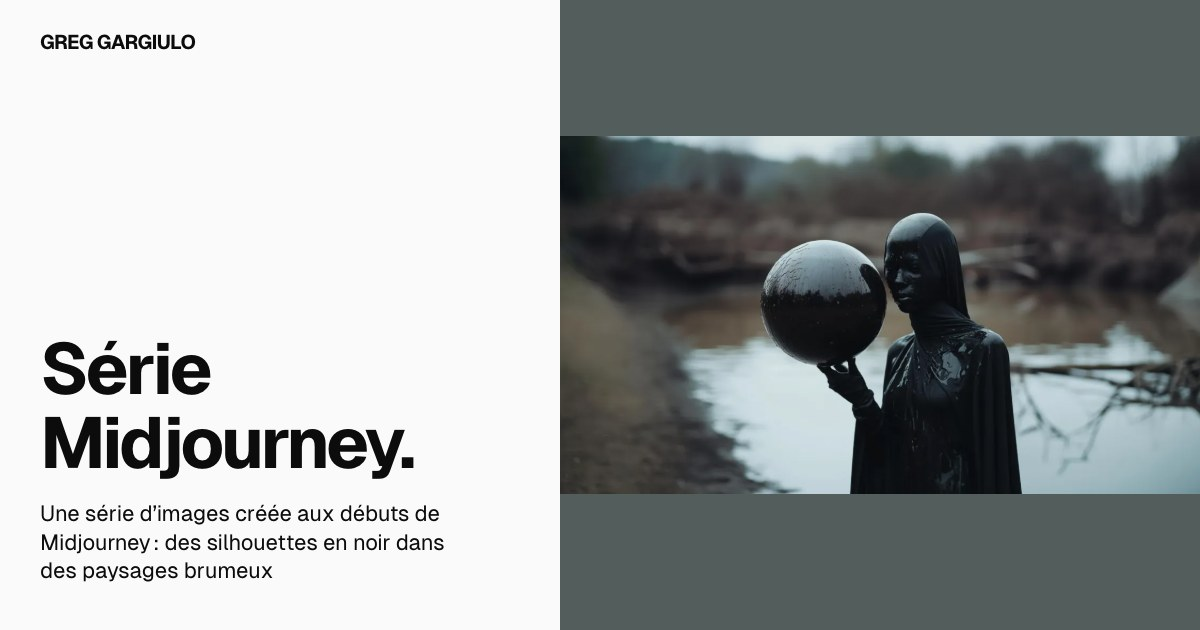
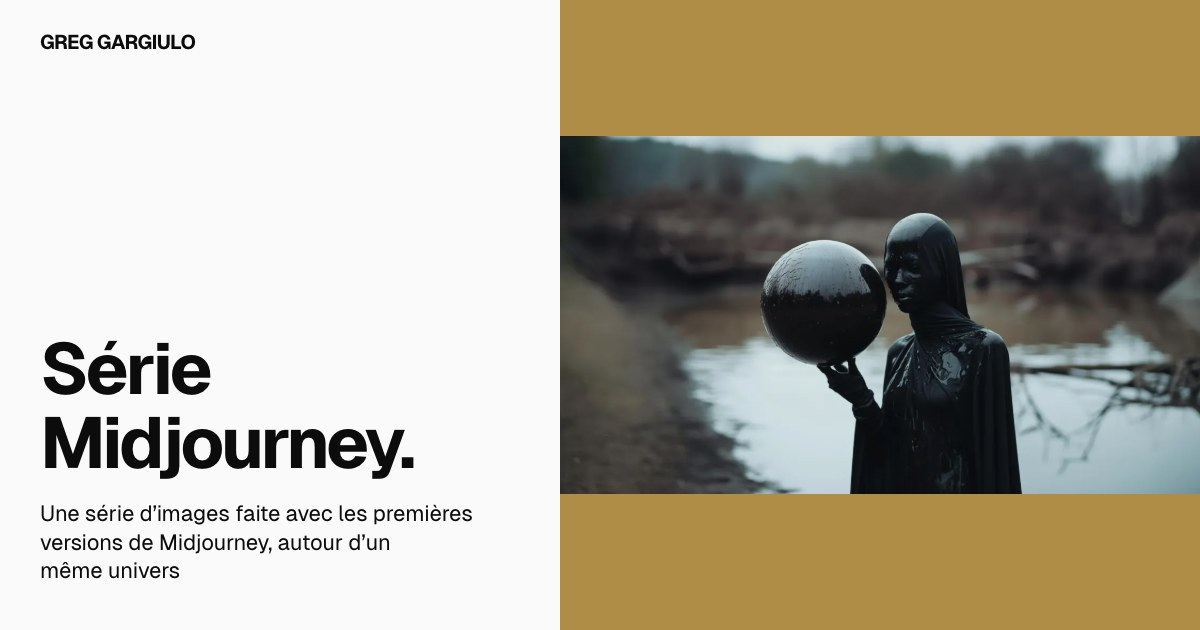
fix: série Midjourney sans légendes, nouvel aplat et textes repris
- Légendes retirées, plus aucune mention de Carrd
- Aplat ocre tiré des images à la place du gris
- Textes réécrits autour des choix de direction artistique

Changed region(s): [[0.4625, 0.7841, 1.0, 1.0], [0.4625, 0.0, 1.0, 0.2413], [0.0308, 0.7841, 0.4008, 0.9349]]

diff --git a/projets/serie-midjourney/index.html b/projets/serie-midjourney/index.html
@@ -4,17 +4,17 @@
 <meta charset="utf-8">
 <meta name="viewport" content="width=device-width, initial-scale=1">
 <title>Série Midjourney, étude de cas | Greg Gargiulo</title>
-<meta name="description" content="Une série d’images créée aux débuts de Midjourney : des silhouettes en noir dans des paysages brumeux. Étude de cas : stack, décisions et résultats.">
+<meta name="description" content="Une série d’images faite avec les premières versions de Midjourney, autour d’un même univers. Étude de cas : stack, décisions et résultats.">
 <link rel="canonical" href="https://6gbigalt.github.io/projets/serie-midjourney/">
 <meta property="og:type" content="website">
 <meta property="og:title" content="Série Midjourney, étude de cas | Greg Gargiulo">
-<meta property="og:description" content="Une série d’images créée aux débuts de Midjourney : des silhouettes en noir dans des paysages brumeux. Étude de cas : stack, décisions et résultats.">
+<meta property="og:description" content="Une série d’images faite avec les premières versions de Midjourney, autour d’un même univers. Étude de cas : stack, décisions et résultats.">
 <meta property="og:url" content="https://6gbigalt.github.io/projets/serie-midjourney/">
 <meta property="og:image" content="https://6gbigalt.github.io/assets/og/serie-midjourney.jpg">
 <meta property="og:locale" content="fr_FR">
 <meta property="og:image:width" content="1200">
 <meta property="og:image:height" content="630">
-<meta property="og:image:alt" content="Série Midjourney. Une série d’images créée aux débuts de Midjourney : des silhouettes en noir dans des paysages brumeux">
+<meta property="og:image:alt" content="Série Midjourney. Une série d’images faite avec les premières versions de Midjourney, autour d’un même univers">
 <meta name="twitter:card" content="summary_large_image">
 <meta name="theme-color" content="#fafafa">
 <link rel="icon" href="../../assets/favicon-32.png" type="image/png" sizes="32x32">
@@ -68,7 +68,7 @@
       <h1 class="case-title">Série Midjourney.</h1>
       <p class="case-year"><span class="visually-hidden">Année : </span>2022</p>
     </div>
-    <p class="case-outcome">Une série d’images créée aux débuts de Midjourney : des silhouettes en noir dans des paysages brumeux</p>
+    <p class="case-outcome">Une série d’images faite avec les premières versions de Midjourney, autour d’un même univers</p>
     
   </div>
 </header>
@@ -77,39 +77,39 @@
   <div class="wrap">
     <div class="reel" data-motion="time">
       <div class="reel-frame" aria-hidden="true">
-        <div class="reel-slide" data-outcome="Une silhouette voilée de noir tient une sphère brillante au bord de l’eau.">
-          <div class="stage stage--photo stage--reel" style="--tone:#535d5c;--on:#fafafa" aria-hidden="true"><div class="photo"><img src="../../assets/captures/serie-midjourney/sphere.webp" srcset="../../assets/captures/serie-midjourney/sphere.w480.webp 480w, ../../assets/captures/serie-midjourney/sphere.w1200.webp 1200w, ../../assets/captures/serie-midjourney/sphere.webp 2160w" sizes="(min-width: 900px) 92vw, 100vw" alt="" width="2160" height="1206" loading="eager" decoding="async"></div></div>
+        <div class="reel-slide" data-outcome="">
+          <div class="stage stage--photo stage--reel" style="--tone:#b08d47;--on:#0c0c0d" aria-hidden="true"><div class="photo"><img src="../../assets/captures/serie-midjourney/sphere.webp" srcset="../../assets/captures/serie-midjourney/sphere.w480.webp 480w, ../../assets/captures/serie-midjourney/sphere.w1200.webp 1200w, ../../assets/captures/serie-midjourney/sphere.webp 2160w" sizes="(min-width: 900px) 92vw, 100vw" alt="" width="2160" height="1206" loading="eager" decoding="async"></div></div>
         </div>
-        <div class="reel-slide" data-outcome="Une silhouette dans un lac de montagne, sous un ciel couvert.">
-          <div class="stage stage--photo stage--reel" style="--tone:#535d5c;--on:#fafafa" aria-hidden="true"><div class="photo"><img src="../../assets/captures/serie-midjourney/lac.webp" srcset="../../assets/captures/serie-midjourney/lac.w480.webp 480w, ../../assets/captures/serie-midjourney/lac.w1200.webp 1200w, ../../assets/captures/serie-midjourney/lac.webp 2160w" sizes="(min-width: 900px) 92vw, 100vw" alt="" width="2160" height="1204" loading="eager" decoding="async"></div></div>
+        <div class="reel-slide" data-outcome="">
+          <div class="stage stage--photo stage--reel" style="--tone:#b08d47;--on:#0c0c0d" aria-hidden="true"><div class="photo"><img src="../../assets/captures/serie-midjourney/sphere-lac.webp" srcset="../../assets/captures/serie-midjourney/sphere-lac.w480.webp 480w, ../../assets/captures/serie-midjourney/sphere-lac.w1200.webp 1200w, ../../assets/captures/serie-midjourney/sphere-lac.webp 2160w" sizes="(min-width: 900px) 92vw, 100vw" alt="" width="2160" height="1204" loading="eager" decoding="async"></div></div>
         </div>
-        <div class="reel-slide" data-outcome="Une silhouette encapuchonnée au bord d’une rivière, une sphère contre elle.">
-          <div class="stage stage--photo stage--reel" style="--tone:#535d5c;--on:#fafafa" aria-hidden="true"><div class="photo"><img src="../../assets/captures/serie-midjourney/riviere.webp" srcset="../../assets/captures/serie-midjourney/riviere.w480.webp 480w, ../../assets/captures/serie-midjourney/riviere.w1200.webp 1200w, ../../assets/captures/serie-midjourney/riviere.webp 2160w" sizes="(min-width: 900px) 92vw, 100vw" alt="" width="2160" height="1203" loading="lazy" decoding="async"></div></div>
+        <div class="reel-slide" data-outcome="">
+          <div class="stage stage--photo stage--reel" style="--tone:#b08d47;--on:#0c0c0d" aria-hidden="true"><div class="photo"><img src="../../assets/captures/serie-midjourney/sphere-flottante.webp" srcset="../../assets/captures/serie-midjourney/sphere-flottante.w480.webp 480w, ../../assets/captures/serie-midjourney/sphere-flottante.w1200.webp 1200w, ../../assets/captures/serie-midjourney/sphere-flottante.webp 2160w" sizes="(min-width: 900px) 92vw, 100vw" alt="" width="2160" height="1203" loading="lazy" decoding="async"></div></div>
         </div>
-        <div class="reel-slide" data-outcome="Une silhouette seule au bord d’un lac, entre des arbres nus.">
-          <div class="stage stage--photo stage--reel" style="--tone:#535d5c;--on:#fafafa" aria-hidden="true"><div class="photo"><img src="../../assets/captures/serie-midjourney/arbres.webp" srcset="../../assets/captures/serie-midjourney/arbres.w480.webp 480w, ../../assets/captures/serie-midjourney/arbres.w1200.webp 1200w, ../../assets/captures/serie-midjourney/arbres.webp 2160w" sizes="(min-width: 900px) 92vw, 100vw" alt="" width="2160" height="1207" loading="lazy" decoding="async"></div></div>
+        <div class="reel-slide" data-outcome="">
+          <div class="stage stage--photo stage--reel" style="--tone:#b08d47;--on:#0c0c0d" aria-hidden="true"><div class="photo"><img src="../../assets/captures/serie-midjourney/monolithes.webp" srcset="../../assets/captures/serie-midjourney/monolithes.w480.webp 480w, ../../assets/captures/serie-midjourney/monolithes.w1200.webp 1200w, ../../assets/captures/serie-midjourney/monolithes.webp 2160w" sizes="(min-width: 900px) 92vw, 100vw" alt="" width="2160" height="1203" loading="lazy" decoding="async"></div></div>
         </div>
-        <div class="reel-slide" data-outcome="Une silhouette tient une sphère noire devant un lac et des montagnes enneigées.">
-          <div class="stage stage--photo stage--reel" style="--tone:#535d5c;--on:#fafafa" aria-hidden="true"><div class="photo"><img src="../../assets/captures/serie-midjourney/sphere-lac.webp" srcset="../../assets/captures/serie-midjourney/sphere-lac.w480.webp 480w, ../../assets/captures/serie-midjourney/sphere-lac.w1200.webp 1200w, ../../assets/captures/serie-midjourney/sphere-lac.webp 2160w" sizes="(min-width: 900px) 92vw, 100vw" alt="" width="2160" height="1204" loading="lazy" decoding="async"></div></div>
+        <div class="reel-slide" data-outcome="">
+          <div class="stage stage--photo stage--reel" style="--tone:#b08d47;--on:#0c0c0d" aria-hidden="true"><div class="photo"><img src="../../assets/captures/serie-midjourney/monolithes-soir.webp" srcset="../../assets/captures/serie-midjourney/monolithes-soir.w480.webp 480w, ../../assets/captures/serie-midjourney/monolithes-soir.w1200.webp 1200w, ../../assets/captures/serie-midjourney/monolithes-soir.webp 2160w" sizes="(min-width: 900px) 92vw, 100vw" alt="" width="2160" height="1207" loading="lazy" decoding="async"></div></div>
         </div>
-        <div class="reel-slide" data-outcome="Une sphère noire flotte au-dessus d’une silhouette, au bord d’un lac.">
-          <div class="stage stage--photo stage--reel" style="--tone:#535d5c;--on:#fafafa" aria-hidden="true"><div class="photo"><img src="../../assets/captures/serie-midjourney/sphere-flottante.webp" srcset="../../assets/captures/serie-midjourney/sphere-flottante.w480.webp 480w, ../../assets/captures/serie-midjourney/sphere-flottante.w1200.webp 1200w, ../../assets/captures/serie-midjourney/sphere-flottante.webp 2160w" sizes="(min-width: 900px) 92vw, 100vw" alt="" width="2160" height="1203" loading="lazy" decoding="async"></div></div>
+        <div class="reel-slide" data-outcome="">
+          <div class="stage stage--photo stage--reel" style="--tone:#b08d47;--on:#0c0c0d" aria-hidden="true"><div class="photo"><img src="../../assets/captures/serie-midjourney/riviere.webp" srcset="../../assets/captures/serie-midjourney/riviere.w480.webp 480w, ../../assets/captures/serie-midjourney/riviere.w1200.webp 1200w, ../../assets/captures/serie-midjourney/riviere.webp 2160w" sizes="(min-width: 900px) 92vw, 100vw" alt="" width="2160" height="1203" loading="lazy" decoding="async"></div></div>
         </div>
-        <div class="reel-slide" data-outcome="Des monolithes de miroir alignés dans une plaine.">
-          <div class="stage stage--photo stage--reel" style="--tone:#535d5c;--on:#fafafa" aria-hidden="true"><div class="photo"><img src="../../assets/captures/serie-midjourney/monolithes.webp" srcset="../../assets/captures/serie-midjourney/monolithes.w480.webp 480w, ../../assets/captures/serie-midjourney/monolithes.w1200.webp 1200w, ../../assets/captures/serie-midjourney/monolithes.webp 2160w" sizes="(min-width: 900px) 92vw, 100vw" alt="" width="2160" height="1203" loading="lazy" decoding="async"></div></div>
+        <div class="reel-slide" data-outcome="">
+          <div class="stage stage--photo stage--reel" style="--tone:#b08d47;--on:#0c0c0d" aria-hidden="true"><div class="photo"><img src="../../assets/captures/serie-midjourney/arbres.webp" srcset="../../assets/captures/serie-midjourney/arbres.w480.webp 480w, ../../assets/captures/serie-midjourney/arbres.w1200.webp 1200w, ../../assets/captures/serie-midjourney/arbres.webp 2160w" sizes="(min-width: 900px) 92vw, 100vw" alt="" width="2160" height="1207" loading="lazy" decoding="async"></div></div>
         </div>
-        <div class="reel-slide" data-outcome="Deux monolithes de miroir au coucher du soleil, reflétés dans l’eau.">
-          <div class="stage stage--photo stage--reel" style="--tone:#535d5c;--on:#fafafa" aria-hidden="true"><div class="photo"><img src="../../assets/captures/serie-midjourney/monolithes-soir.webp" srcset="../../assets/captures/serie-midjourney/monolithes-soir.w480.webp 480w, ../../assets/captures/serie-midjourney/monolithes-soir.w1200.webp 1200w, ../../assets/captures/serie-midjourney/monolithes-soir.webp 2160w" sizes="(min-width: 900px) 92vw, 100vw" alt="" width="2160" height="1207" loading="lazy" decoding="async"></div></div>
+        <div class="reel-slide" data-outcome="">
+          <div class="stage stage--photo stage--reel" style="--tone:#b08d47;--on:#0c0c0d" aria-hidden="true"><div class="photo"><img src="../../assets/captures/serie-midjourney/salle.webp" srcset="../../assets/captures/serie-midjourney/salle.w480.webp 480w, ../../assets/captures/serie-midjourney/salle.w1200.webp 1200w, ../../assets/captures/serie-midjourney/salle.webp 2160w" sizes="(min-width: 900px) 92vw, 100vw" alt="" width="2160" height="1203" loading="lazy" decoding="async"></div></div>
         </div>
-        <div class="reel-slide" data-outcome="Une salle sombre, des silhouettes casquées et des sphères de verre.">
-          <div class="stage stage--photo stage--reel" style="--tone:#535d5c;--on:#fafafa" aria-hidden="true"><div class="photo"><img src="../../assets/captures/serie-midjourney/salle.webp" srcset="../../assets/captures/serie-midjourney/salle.w480.webp 480w, ../../assets/captures/serie-midjourney/salle.w1200.webp 1200w, ../../assets/captures/serie-midjourney/salle.webp 2160w" sizes="(min-width: 900px) 92vw, 100vw" alt="" width="2160" height="1203" loading="lazy" decoding="async"></div></div>
+        <div class="reel-slide" data-outcome="">
+          <div class="stage stage--photo stage--reel" style="--tone:#b08d47;--on:#0c0c0d" aria-hidden="true"><div class="photo"><img src="../../assets/captures/serie-midjourney/tunnel.webp" srcset="../../assets/captures/serie-midjourney/tunnel.w480.webp 480w, ../../assets/captures/serie-midjourney/tunnel.w1200.webp 1200w, ../../assets/captures/serie-midjourney/tunnel.webp 2160w" sizes="(min-width: 900px) 92vw, 100vw" alt="" width="2160" height="1207" loading="lazy" decoding="async"></div></div>
         </div>
-        <div class="reel-slide" data-outcome="Une silhouette casquée au centre d’un tunnel circulaire.">
-          <div class="stage stage--photo stage--reel" style="--tone:#535d5c;--on:#fafafa" aria-hidden="true"><div class="photo"><img src="../../assets/captures/serie-midjourney/tunnel.webp" srcset="../../assets/captures/serie-midjourney/tunnel.w480.webp 480w, ../../assets/captures/serie-midjourney/tunnel.w1200.webp 1200w, ../../assets/captures/serie-midjourney/tunnel.webp 2160w" sizes="(min-width: 900px) 92vw, 100vw" alt="" width="2160" height="1207" loading="lazy" decoding="async"></div></div>
+        <div class="reel-slide" data-outcome="">
+          <div class="stage stage--photo stage--reel" style="--tone:#b08d47;--on:#0c0c0d" aria-hidden="true"><div class="photo"><img src="../../assets/captures/serie-midjourney/lac.webp" srcset="../../assets/captures/serie-midjourney/lac.w480.webp 480w, ../../assets/captures/serie-midjourney/lac.w1200.webp 1200w, ../../assets/captures/serie-midjourney/lac.webp 2160w" sizes="(min-width: 900px) 92vw, 100vw" alt="" width="2160" height="1204" loading="lazy" decoding="async"></div></div>
         </div>
       </div>
       <div class="reel-bar">
-        <p class="reel-caption">Une silhouette voilée de noir tient une sphère brillante au bord de l’eau.</p>
+        
         <p class="reel-status visually-hidden" role="status"></p>
         <div class="reel-ctrl">
           <button type="button" class="arrow reel-pause" aria-label="Mettre les animations en pause"><svg class="i-pause" viewBox="0 0 16 16" aria-hidden="true" focusable="false"><path d="M5.5 3v10M10.5 3v10" fill="none" stroke="currentColor" stroke-width="1.5"/></svg><svg class="i-play" viewBox="0 0 16 16" aria-hidden="true" focusable="false"><path d="M5 3.2l8 4.8-8 4.8z" fill="none" stroke="currentColor" stroke-width="1.5" stroke-linejoin="round"/></svg></button>
@@ -145,9 +145,9 @@
     </div>
     <div class="overview-main">
       <h2 class="label">En bref</h2>
-      <p class="overview-lead">En 2022, Midjourney en était à ses premières versions et ne s’utilisait que sur Discord. J’en ai tiré une série d’images pensée comme un seul univers : des silhouettes vêtues de noir dans des paysages vides, avec des formes qui reviennent d’une image à l’autre. J’ai tout fait seul, de la direction artistique au choix des images.</p>
+      <p class="overview-lead">J’ai créé cette série en 2022, avec les premières versions de Midjourney, quand l’outil ne s’utilisait encore que sur Discord. Toutes les images partagent le même univers : des personnages vêtus de noir, des paysages vides, et des formes qui reviennent d’une image à l’autre.</p>
       <h2 class="label">Point de départ</h2>
-      <p class="overview-text">Midjourney rendait alors quatre propositions à chaque demande, et aucun réglage ne permettait d’imposer un style d’une image à l’autre. Pour que la série se tienne, il fallait fixer une direction et ne garder que les images qui la suivaient.</p>
+      <p class="overview-text">À l’époque, Midjourney donnait quatre images différentes à chaque demande, sans moyen d’imposer un style d’une image à l’autre. Pour obtenir une série cohérente, il fallait tenir une direction précise et ne garder que les images qui la suivaient.</p>
       
     </div>
   </div>
@@ -157,7 +157,7 @@
   <div class="wrap">
     <div class="spec" id="livrables">
       <h2 class="spec-title">Livrables</h2>
-      <ul class="spec-list" role="list"><li>Une série de dix images au format 16:9.</li><li>Une palette resserrée, faite de noirs profonds et de gris bleutés sous des ciels couverts.</li><li>Deux motifs qui reviennent, la sphère noire et le monolithe de miroir.</li><li>Une page Carrd pour présenter la série.</li></ul>
+      <ul class="spec-list" role="list"><li>Dix images au format 16:9.</li><li>Un même univers visuel, avec ses personnages et ses motifs.</li></ul>
     </div>
     
     <div class="spec" id="stack">
@@ -165,7 +165,6 @@
       <dl class="stack-table">
           <div><dt>Images</dt><dd><ul class="tags" role="list"><li>Midjourney</li></ul></dd></div>
           <div><dt>Accès</dt><dd><ul class="tags" role="list"><li>Discord</li></ul></dd></div>
-          <div><dt>Présentation</dt><dd><ul class="tags" role="list"><li>Carrd</li></ul></dd></div>
       </dl>
     </div>
   </div>
@@ -179,56 +178,46 @@
       </div>
       <ol class="steps" role="list">
           <li class="step">
-            <h3 class="step-title">Une palette resserrée, sous un ciel bas</h3>
-            <div class="step-body"><p>Presque toutes les images se passent dehors, au bord de l’eau, avec des montagnes au loin et un ciel couvert. Les couleurs restent froides, entre le noir et le gris bleuté, même quand le soleil perce à l’horizon.</p></div>
+            <h3 class="step-title">Les mêmes formes d’une image à l’autre</h3>
+            <div class="step-body"><p>Je voulais que les images se répondent. Une sphère noire passe de main en main, puis flotte au-dessus d’un lac, et des monolithes de miroir se dressent dans la plaine.</p></div>
+            <div class="step-media"><div class="pair"><figure class="shot" data-motion="time">
+          <div class="stage stage--photo stage--pair" style="--tone:#b08d47;--on:#0c0c0d"><div class="photo"><img src="../../assets/captures/serie-midjourney/sphere-lac.webp" srcset="../../assets/captures/serie-midjourney/sphere-lac.w480.webp 480w, ../../assets/captures/serie-midjourney/sphere-lac.w1200.webp 1200w, ../../assets/captures/serie-midjourney/sphere-lac.webp 2160w" sizes="(min-width: 900px) 32vw, 92vw" alt="Série Midjourney, image de la série" width="2160" height="1204" loading="lazy" decoding="async"></div></div>
+          
+        </figure><figure class="shot" data-motion="time">
+          <div class="stage stage--photo stage--pair" style="--tone:#b08d47;--on:#0c0c0d"><div class="photo"><img src="../../assets/captures/serie-midjourney/sphere-flottante.webp" srcset="../../assets/captures/serie-midjourney/sphere-flottante.w480.webp 480w, ../../assets/captures/serie-midjourney/sphere-flottante.w1200.webp 1200w, ../../assets/captures/serie-midjourney/sphere-flottante.webp 2160w" sizes="(min-width: 900px) 32vw, 92vw" alt="Série Midjourney, image de la série" width="2160" height="1203" loading="lazy" decoding="async"></div></div>
+          
+        </figure><figure class="shot" data-motion="time">
+          <div class="stage stage--photo stage--pair" style="--tone:#b08d47;--on:#0c0c0d"><div class="photo"><img src="../../assets/captures/serie-midjourney/monolithes.webp" srcset="../../assets/captures/serie-midjourney/monolithes.w480.webp 480w, ../../assets/captures/serie-midjourney/monolithes.w1200.webp 1200w, ../../assets/captures/serie-midjourney/monolithes.webp 2160w" sizes="(min-width: 900px) 32vw, 92vw" alt="Série Midjourney, image de la série" width="2160" height="1203" loading="lazy" decoding="async"></div></div>
+          
+        </figure><figure class="shot" data-motion="time">
+          <div class="stage stage--photo stage--pair" style="--tone:#b08d47;--on:#0c0c0d"><div class="photo"><img src="../../assets/captures/serie-midjourney/monolithes-soir.webp" srcset="../../assets/captures/serie-midjourney/monolithes-soir.w480.webp 480w, ../../assets/captures/serie-midjourney/monolithes-soir.w1200.webp 1200w, ../../assets/captures/serie-midjourney/monolithes-soir.webp 2160w" sizes="(min-width: 900px) 32vw, 92vw" alt="Série Midjourney, image de la série" width="2160" height="1207" loading="lazy" decoding="async"></div></div>
+          
+        </figure></div></div>
+          </li>
+          <li class="step">
+            <h3 class="step-title">Des personnages sans visage</h3>
+            <div class="step-body"><p>Les personnages sont vêtus de noir de la tête aux pieds, le visage souvent masqué, et presque toujours seuls. Je ne voulais pas qu’on sache qui ils sont ni ce qu’ils font là.</p></div>
+            <div class="step-media"><div class="pair"><figure class="shot" data-motion="time">
+          <div class="stage stage--photo stage--pair" style="--tone:#b08d47;--on:#0c0c0d"><div class="photo"><img src="../../assets/captures/serie-midjourney/riviere.webp" srcset="../../assets/captures/serie-midjourney/riviere.w480.webp 480w, ../../assets/captures/serie-midjourney/riviere.w1200.webp 1200w, ../../assets/captures/serie-midjourney/riviere.webp 2160w" sizes="(min-width: 900px) 32vw, 92vw" alt="Série Midjourney, image de la série" width="2160" height="1203" loading="lazy" decoding="async"></div></div>
+          
+        </figure><figure class="shot" data-motion="time">
+          <div class="stage stage--photo stage--pair" style="--tone:#b08d47;--on:#0c0c0d"><div class="photo"><img src="../../assets/captures/serie-midjourney/arbres.webp" srcset="../../assets/captures/serie-midjourney/arbres.w480.webp 480w, ../../assets/captures/serie-midjourney/arbres.w1200.webp 1200w, ../../assets/captures/serie-midjourney/arbres.webp 2160w" sizes="(min-width: 900px) 32vw, 92vw" alt="Série Midjourney, image de la série" width="2160" height="1207" loading="lazy" decoding="async"></div></div>
+          
+        </figure><figure class="shot" data-motion="time">
+          <div class="stage stage--photo stage--pair" style="--tone:#b08d47;--on:#0c0c0d"><div class="photo"><img src="../../assets/captures/serie-midjourney/salle.webp" srcset="../../assets/captures/serie-midjourney/salle.w480.webp 480w, ../../assets/captures/serie-midjourney/salle.w1200.webp 1200w, ../../assets/captures/serie-midjourney/salle.webp 2160w" sizes="(min-width: 900px) 32vw, 92vw" alt="Série Midjourney, image de la série" width="2160" height="1203" loading="lazy" decoding="async"></div></div>
+          
+        </figure><figure class="shot" data-motion="time">
+          <div class="stage stage--photo stage--pair" style="--tone:#b08d47;--on:#0c0c0d"><div class="photo"><img src="../../assets/captures/serie-midjourney/tunnel.webp" srcset="../../assets/captures/serie-midjourney/tunnel.w480.webp 480w, ../../assets/captures/serie-midjourney/tunnel.w1200.webp 1200w, ../../assets/captures/serie-midjourney/tunnel.webp 2160w" sizes="(min-width: 900px) 32vw, 92vw" alt="Série Midjourney, image de la série" width="2160" height="1207" loading="lazy" decoding="async"></div></div>
+          
+        </figure></div></div>
+          </li>
+          <li class="step">
+            <h3 class="step-title">Une lumière froide, sous un ciel bas</h3>
+            <div class="step-body"><p>Presque toutes les images se passent dehors, au bord de l’eau, sous un ciel couvert. Je suis resté sur des noirs profonds et des gris bleutés, pour que toute la série garde la même lumière.</p></div>
             <div class="step-media"><figure class="shot shot--photo" data-motion="time">
-          <div class="stage stage--photo" style="--tone:#535d5c;--on:#fafafa"><div class="photo"><img src="../../assets/captures/serie-midjourney/lac.webp" srcset="../../assets/captures/serie-midjourney/lac.w480.webp 480w, ../../assets/captures/serie-midjourney/lac.w1200.webp 1200w, ../../assets/captures/serie-midjourney/lac.webp 2160w" sizes="(min-width: 900px) 62vw, 92vw" alt="" width="2160" height="1204" loading="lazy" decoding="async"></div></div>
-          <figcaption>Une silhouette dans un lac de montagne, sous un ciel couvert.</figcaption>
+          <div class="stage stage--photo" style="--tone:#b08d47;--on:#0c0c0d"><div class="photo"><img src="../../assets/captures/serie-midjourney/lac.webp" srcset="../../assets/captures/serie-midjourney/lac.w480.webp 480w, ../../assets/captures/serie-midjourney/lac.w1200.webp 1200w, ../../assets/captures/serie-midjourney/lac.webp 2160w" sizes="(min-width: 900px) 62vw, 92vw" alt="Série Midjourney, image de la série" width="2160" height="1204" loading="lazy" decoding="async"></div></div>
+          
         </figure></div>
-          </li>
-          <li class="step">
-            <h3 class="step-title">Des silhouettes en noir, presque toujours seules</h3>
-            <div class="step-body"><p>Les personnages sont vêtus de noir de la tête aux pieds, le visage souvent couvert, et seuls dans le cadre. Rien ne dit qui ils sont ni ce qu’ils font là : je voulais des silhouettes énigmatiques.</p></div>
-            <div class="step-media"><div class="pair"><figure class="shot" data-motion="time">
-          <div class="stage stage--photo stage--pair" style="--tone:#535d5c;--on:#fafafa"><div class="photo"><img src="../../assets/captures/serie-midjourney/riviere.webp" srcset="../../assets/captures/serie-midjourney/riviere.w480.webp 480w, ../../assets/captures/serie-midjourney/riviere.w1200.webp 1200w, ../../assets/captures/serie-midjourney/riviere.webp 2160w" sizes="(min-width: 900px) 32vw, 92vw" alt="" width="2160" height="1203" loading="lazy" decoding="async"></div></div>
-          <figcaption>Une silhouette encapuchonnée au bord d’une rivière, une sphère contre elle.</figcaption>
-        </figure><figure class="shot" data-motion="time">
-          <div class="stage stage--photo stage--pair" style="--tone:#535d5c;--on:#fafafa"><div class="photo"><img src="../../assets/captures/serie-midjourney/arbres.webp" srcset="../../assets/captures/serie-midjourney/arbres.w480.webp 480w, ../../assets/captures/serie-midjourney/arbres.w1200.webp 1200w, ../../assets/captures/serie-midjourney/arbres.webp 2160w" sizes="(min-width: 900px) 32vw, 92vw" alt="" width="2160" height="1207" loading="lazy" decoding="async"></div></div>
-          <figcaption>Une silhouette seule au bord d’un lac, entre des arbres nus.</figcaption>
-        </figure></div></div>
-          </li>
-          <li class="step">
-            <h3 class="step-title">Une sphère noire, d’une image à l’autre</h3>
-            <div class="step-body"><p>Une sphère noire et brillante revient dans plusieurs images. Les personnages la portent à bout de bras ou la serrent contre eux, et sur l’une d’elles, elle flotte au-dessus d’un lac.</p></div>
-            <div class="step-media"><div class="pair"><figure class="shot" data-motion="time">
-          <div class="stage stage--photo stage--pair" style="--tone:#535d5c;--on:#fafafa"><div class="photo"><img src="../../assets/captures/serie-midjourney/sphere-lac.webp" srcset="../../assets/captures/serie-midjourney/sphere-lac.w480.webp 480w, ../../assets/captures/serie-midjourney/sphere-lac.w1200.webp 1200w, ../../assets/captures/serie-midjourney/sphere-lac.webp 2160w" sizes="(min-width: 900px) 32vw, 92vw" alt="" width="2160" height="1204" loading="lazy" decoding="async"></div></div>
-          <figcaption>Une silhouette tient une sphère noire devant un lac et des montagnes enneigées.</figcaption>
-        </figure><figure class="shot" data-motion="time">
-          <div class="stage stage--photo stage--pair" style="--tone:#535d5c;--on:#fafafa"><div class="photo"><img src="../../assets/captures/serie-midjourney/sphere-flottante.webp" srcset="../../assets/captures/serie-midjourney/sphere-flottante.w480.webp 480w, ../../assets/captures/serie-midjourney/sphere-flottante.w1200.webp 1200w, ../../assets/captures/serie-midjourney/sphere-flottante.webp 2160w" sizes="(min-width: 900px) 32vw, 92vw" alt="" width="2160" height="1203" loading="lazy" decoding="async"></div></div>
-          <figcaption>Une sphère noire flotte au-dessus d’une silhouette, au bord d’un lac.</figcaption>
-        </figure></div></div>
-          </li>
-          <li class="step">
-            <h3 class="step-title">Des monolithes de miroir au milieu de la plaine</h3>
-            <div class="step-body"><p>Des blocs de miroir se dressent dans la plaine, seuls ou en file, et reflètent le ciel et l’eau autour d’eux. Ce sont les deux seules images de la série sans personnage.</p></div>
-            <div class="step-media"><div class="pair"><figure class="shot" data-motion="time">
-          <div class="stage stage--photo stage--pair" style="--tone:#535d5c;--on:#fafafa"><div class="photo"><img src="../../assets/captures/serie-midjourney/monolithes.webp" srcset="../../assets/captures/serie-midjourney/monolithes.w480.webp 480w, ../../assets/captures/serie-midjourney/monolithes.w1200.webp 1200w, ../../assets/captures/serie-midjourney/monolithes.webp 2160w" sizes="(min-width: 900px) 32vw, 92vw" alt="" width="2160" height="1203" loading="lazy" decoding="async"></div></div>
-          <figcaption>Des monolithes de miroir alignés dans une plaine.</figcaption>
-        </figure><figure class="shot" data-motion="time">
-          <div class="stage stage--photo stage--pair" style="--tone:#535d5c;--on:#fafafa"><div class="photo"><img src="../../assets/captures/serie-midjourney/monolithes-soir.webp" srcset="../../assets/captures/serie-midjourney/monolithes-soir.w480.webp 480w, ../../assets/captures/serie-midjourney/monolithes-soir.w1200.webp 1200w, ../../assets/captures/serie-midjourney/monolithes-soir.webp 2160w" sizes="(min-width: 900px) 32vw, 92vw" alt="" width="2160" height="1207" loading="lazy" decoding="async"></div></div>
-          <figcaption>Deux monolithes de miroir au coucher du soleil, reflétés dans l’eau.</figcaption>
-        </figure></div></div>
-          </li>
-          <li class="step">
-            <h3 class="step-title">Deux scènes en intérieur</h3>
-            <div class="step-body"><p>Deux images quittent le dehors. L’une montre une salle sombre où des silhouettes casquées se tiennent parmi des sphères de verre, l’autre un personnage au centre d’un tunnel circulaire, noir et cuivré.</p></div>
-            <div class="step-media"><div class="pair"><figure class="shot" data-motion="time">
-          <div class="stage stage--photo stage--pair" style="--tone:#535d5c;--on:#fafafa"><div class="photo"><img src="../../assets/captures/serie-midjourney/salle.webp" srcset="../../assets/captures/serie-midjourney/salle.w480.webp 480w, ../../assets/captures/serie-midjourney/salle.w1200.webp 1200w, ../../assets/captures/serie-midjourney/salle.webp 2160w" sizes="(min-width: 900px) 32vw, 92vw" alt="" width="2160" height="1203" loading="lazy" decoding="async"></div></div>
-          <figcaption>Une salle sombre, des silhouettes casquées et des sphères de verre.</figcaption>
-        </figure><figure class="shot" data-motion="time">
-          <div class="stage stage--photo stage--pair" style="--tone:#535d5c;--on:#fafafa"><div class="photo"><img src="../../assets/captures/serie-midjourney/tunnel.webp" srcset="../../assets/captures/serie-midjourney/tunnel.w480.webp 480w, ../../assets/captures/serie-midjourney/tunnel.w1200.webp 1200w, ../../assets/captures/serie-midjourney/tunnel.webp 2160w" sizes="(min-width: 900px) 32vw, 92vw" alt="" width="2160" height="1207" loading="lazy" decoding="async"></div></div>
-          <figcaption>Une silhouette casquée au centre d’un tunnel circulaire.</figcaption>
-        </figure></div></div>
           </li>
       </ol>
     </div>

diff --git a/index.html b/index.html
@@ -92,8 +92,8 @@
         <div class="reel-slide" data-href="projets/black-milk-records/" data-name="Black Milk Records." data-outcome="Un label de musique et ses artistes, que j’ai créés de A à Z avec l’IA">
           <div class="stage stage--art stage--reel" style="--tone:#f9fc22;--on:#0c0c0d" aria-hidden="true"><div class="art"><img src="assets/captures/black-milk-records/logo.webp" srcset="assets/captures/black-milk-records/logo.w480.webp 480w, assets/captures/black-milk-records/logo.webp 968w" sizes="(min-width: 900px) 92vw, 100vw" alt="" width="968" height="968" loading="lazy" decoding="async"></div></div>
         </div>
-        <div class="reel-slide" data-href="projets/serie-midjourney/" data-name="Série Midjourney." data-outcome="Une série d’images créée aux débuts de Midjourney : des silhouettes en noir dans des paysages brumeux">
-          <div class="stage stage--photo stage--reel" style="--tone:#535d5c;--on:#fafafa" aria-hidden="true"><div class="photo"><img src="assets/captures/serie-midjourney/sphere.webp" srcset="assets/captures/serie-midjourney/sphere.w480.webp 480w, assets/captures/serie-midjourney/sphere.w1200.webp 1200w, assets/captures/serie-midjourney/sphere.webp 2160w" sizes="(min-width: 900px) 92vw, 100vw" alt="" width="2160" height="1206" loading="lazy" decoding="async"></div></div>
+        <div class="reel-slide" data-href="projets/serie-midjourney/" data-name="Série Midjourney." data-outcome="Une série d’images faite avec les premières versions de Midjourney, autour d’un même univers">
+          <div class="stage stage--photo stage--reel" style="--tone:#b08d47;--on:#0c0c0d" aria-hidden="true"><div class="photo"><img src="assets/captures/serie-midjourney/sphere.webp" srcset="assets/captures/serie-midjourney/sphere.w480.webp 480w, assets/captures/serie-midjourney/sphere.w1200.webp 1200w, assets/captures/serie-midjourney/sphere.webp 2160w" sizes="(min-width: 900px) 92vw, 100vw" alt="" width="2160" height="1206" loading="lazy" decoding="async"></div></div>
         </div>
         <div class="reel-slide" data-href="projets/eggchange/" data-name="Egg’Change." data-outcome="Un contact de salon enregistré en une photo et un mémo vocal">
           <div class="stage stage--phones stage--reel" style="--tone:#1f7f72;--on:#fafafa" aria-hidden="true"><div class="phones"><div class="handset"><img class="phone" src="assets/captures/eggchange/prospects-phone.webp" srcset="assets/captures/eggchange/prospects-phone.w480.webp 480w, assets/captures/eggchange/prospects-phone.webp 960w" sizes="(min-width: 900px) 20vw, 34vw" alt="" width="960" height="1929" loading="lazy" decoding="async"><div class="screen screen--phone"><div class="live live--video" data-src="assets/captures/eggchange/prospects-clip.mp4" style="--loop:4s"></div></div></div><div class="handset"><img class="phone" src="assets/captures/eggchange/qualification-phone.webp" srcset="assets/captures/eggchange/qualification-phone.w480.webp 480w, assets/captures/eggchange/qualification-phone.webp 960w" sizes="(min-width: 900px) 20vw, 34vw" alt="" width="960" height="1929" loading="lazy" decoding="async"><div class="screen screen--phone"><div class="live live--video" data-src="assets/captures/eggchange/fiche-clip.mp4" style="--loop:9.6s"></div></div></div><img class="phone" src="assets/captures/eggchange/carte-phone.webp" srcset="assets/captures/eggchange/carte-phone.w480.webp 480w, assets/captures/eggchange/carte-phone.webp 960w" sizes="(min-width: 900px) 20vw, 34vw" alt="" width="960" height="1929" loading="lazy" decoding="async"></div></div>
@@ -211,10 +211,10 @@
         </li>
         <li>
           <a class="irow" href="projets/serie-midjourney/">
-            <div class="irow-thumb"><div class="stage stage--photo stage--mini" style="--tone:#535d5c;--on:#fafafa" aria-hidden="true"><div class="photo"><img src="assets/captures/serie-midjourney/sphere.webp" srcset="assets/captures/serie-midjourney/sphere.w480.webp 480w, assets/captures/serie-midjourney/sphere.w1200.webp 1200w, assets/captures/serie-midjourney/sphere.webp 2160w" sizes="(min-width: 900px) 14rem, 32vw" alt="" width="2160" height="1206" loading="lazy" decoding="async"></div></div></div>
+            <div class="irow-thumb"><div class="stage stage--photo stage--mini" style="--tone:#b08d47;--on:#0c0c0d" aria-hidden="true"><div class="photo"><img src="assets/captures/serie-midjourney/sphere.webp" srcset="assets/captures/serie-midjourney/sphere.w480.webp 480w, assets/captures/serie-midjourney/sphere.w1200.webp 1200w, assets/captures/serie-midjourney/sphere.webp 2160w" sizes="(min-width: 900px) 14rem, 32vw" alt="" width="2160" height="1206" loading="lazy" decoding="async"></div></div></div>
             <span class="irow-name">Série Midjourney.<span class="irow-arrow" aria-hidden="true"><svg viewBox="0 0 38 18" aria-hidden="true" focusable="false"><path d="M0.75 9h35.5M28.5 1l8 8-8 8" fill="none" stroke="currentColor" stroke-width="1.5"/></svg></span></span>
             <span class="irow-meta">2022</span>
-            <div class="irow-outcome">Une série d’images créée aux débuts de Midjourney : des silhouettes en noir dans des paysages brumeux</div>
+            <div class="irow-outcome">Une série d’images faite avec les premières versions de Midjourney, autour d’un même univers</div>
             <ul class="tags tags--sm irow-stack" role="list" aria-label="Technologies principales"><li>Midjourney</li><li>Discord</li></ul>
           </a>
         </li>

diff --git a/projets/black-milk-records/index.html b/projets/black-milk-records/index.html
@@ -204,9 +204,9 @@
       <span class="next-text">
         <span class="next-label">Projet suivant <span class="next-count">6 / 11</span></span>
         <span class="next-name">Série Midjourney.<span class="next-arrow"><svg viewBox="0 0 38 18" aria-hidden="true" focusable="false"><path d="M0.75 9h35.5M28.5 1l8 8-8 8" fill="none" stroke="currentColor" stroke-width="1.5"/></svg></span></span>
-        <span class="next-outcome">Une série d’images créée aux débuts de Midjourney : des silhouettes en noir dans des paysages brumeux</span>
+        <span class="next-outcome">Une série d’images faite avec les premières versions de Midjourney, autour d’un même univers</span>
       </span>
-      <div class="next-shot" data-motion="time"><div class="stage stage--photo stage--slide" style="--tone:#535d5c;--on:#fafafa" aria-hidden="true"><div class="photo"><img src="../../assets/captures/serie-midjourney/sphere.webp" srcset="../../assets/captures/serie-midjourney/sphere.w480.webp 480w, ../../assets/captures/serie-midjourney/sphere.w1200.webp 1200w, ../../assets/captures/serie-midjourney/sphere.webp 2160w" sizes="(min-width: 900px) 44vw, 82vw" alt="" width="2160" height="1206" loading="lazy" decoding="async"></div></div></div>
+      <div class="next-shot" data-motion="time"><div class="stage stage--photo stage--slide" style="--tone:#b08d47;--on:#0c0c0d" aria-hidden="true"><div class="photo"><img src="../../assets/captures/serie-midjourney/sphere.webp" srcset="../../assets/captures/serie-midjourney/sphere.w480.webp 480w, ../../assets/captures/serie-midjourney/sphere.w1200.webp 1200w, ../../assets/captures/serie-midjourney/sphere.webp 2160w" sizes="(min-width: 900px) 44vw, 82vw" alt="" width="2160" height="1206" loading="lazy" decoding="async"></div></div></div>
     </a>
     <div class="next-more">
       <a class="ulink" href="../../projets/relances-commerciales/">Projet précédent : Sales Army</a>
